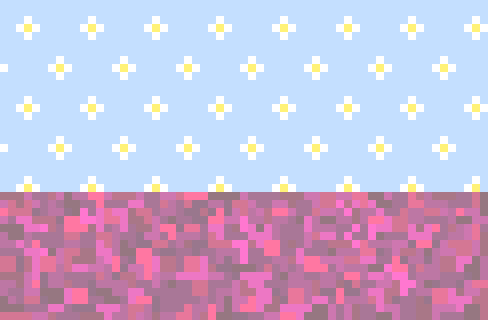
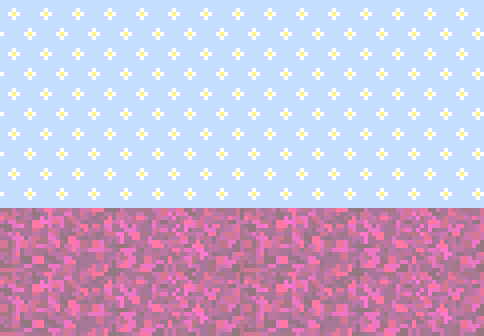
new backgrounds

diff --git a/src/components/Homescreen/components/HomescreenComponents/PetCareGuide.jsx b/src/components/Homescreen/components/HomescreenComponents/PetCareGuide.jsx
@@ -33,7 +33,7 @@ function PetCareGuide({setPetCareGuideOpenFlag}) {
                     <p> &bull; A pet will also lose health if an actiivty isn't performed on time according to its schedule. Damage varies based on activity.</p>
                     <p> &bull; A pet can gain health when given (the correct) medicine. Medicine is most effective when pets are sleeping (between 8pm and 6am). Only one dose per 24 hours is allowed.</p>
                     <p> &bull; Pets will also gain health (increased health capacity) when they grow to their next stage. There are three stages in total.</p>
-                    <p> &bull; Try interacting with your pets to see what happens!</p>
+                    <p> &bull; Try interacting with your pets (hover over them) to see what happens!</p>
                 </div>
 
             </div>
